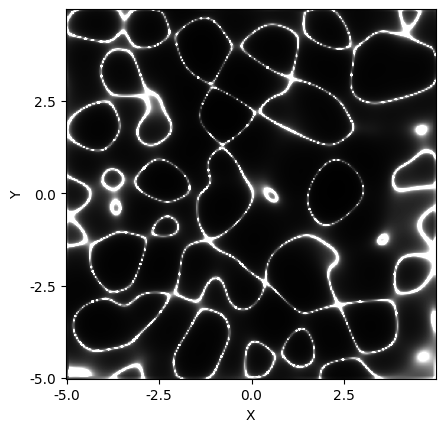
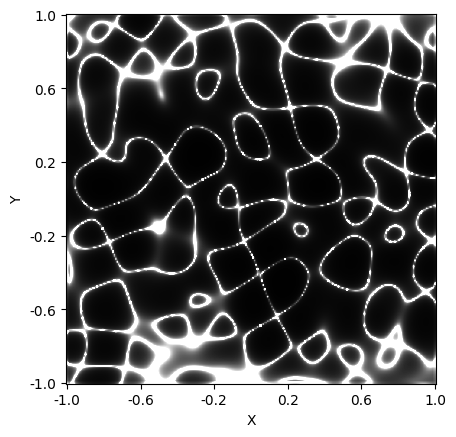
Added intensity graph in farfield.py

diff --git a/farfield.py b/farfield.py
@@ -2,38 +2,61 @@ import numpy as np
 from scipy import signal
 import matplotlib.pyplot as plt
 
-n = 256
-x = np.linspace(- 5, 5, n)
-y = np.linspace(- 5, 5, n)
+N = 256 # Grid resolution, N ** 2 points
+SX = 1 / 8 # X Roughness
+SY = 1 / 8 # Y Roughness
+D = 2 # Distance to screen
+
+x = np.linspace(- 1, 1, N)
+y = np.linspace(- 1, 1, N)
 X, Y = np.meshgrid(x, y)
 
 # Generating random wavefront
-C = np.exp(- (X ** 2 + Y ** 2))
-B = np.exp(2j * np.pi * np.random.randn(*np.shape(X)))
-A = signal.convolve(B, C, 'same')
-I = np.sqrt(np.mean(np.abs(A) ** 2))
-Z = np.real(A / I)
+bell_curve = np.exp(- (X ** 2 / (2 * SX ** 2) + Y ** 2 / (2 * SY ** 2)))
+randn_phase = np.exp(2j * np.pi * np.random.randn(*np.shape(X)))
+complex_amplitude = signal.convolve(randn_phase, bell_curve, 'same')
+mean_sqr_amplitude = np.sqrt(np.mean(np.abs(complex_amplitude) ** 2))
+Z = np.real(complex_amplitude / mean_sqr_amplitude)
 
 # Jacobian and inverse Jacobian
 O1, O2 = np.gradient(- Z)
 O1x, O1y = np.gradient(O1)
 O2x, O2y = np.gradient(O2)
-J = O1x * O2y - O1y * O2x
-D = np.abs(1 / J)
+Jacobian = O1x * O2y - O1y * O2x
+invJacobian = np.abs(1 / Jacobian)
+
+# Far field intensity
+I = np.zeros((N, N))
+for i, xi in enumerate(x):
+    for j, yj in enumerate(y):
+        # Where rays land on the screen
+        a = xi + (D - Z[i, j]) * O1[i, j]
+        b = yj + (D - Z[i, j]) * O2[i, j]
+        # Intensity
+        if np.abs(a) > 1 or np.abs(b) > 1:
+            continue
+        indx = np.argmin(np.abs(x - a))
+        indy = np.argmin(np.abs(y - b))
+        I[indx, indy] += 1
+        
 
 # Plotting
-step = n // 4
 fig1, ax1 = plt.subplots()
 im1 = ax1.imshow(Z, cmap='seismic', origin='lower')
 plt.colorbar(im1, ax=ax1)
-ax1.set_xticks(np.arange(0, n, step), [f'{i:.1f}' for i in x[::step]])
-ax1.set_yticks(np.arange(0, n, step), [f'{i:.1f}' for i in y[::step]])
-ax1.set_xlabel('X')
-ax1.set_ylabel('Y')
+
 fig2, ax2 = plt.subplots()
-im2 = ax2.imshow(D, cmap='gray', clim=(0, 5e6), origin='lower')
-ax2.set_xticks(np.arange(0, n, step), [f'{i:.1f}' for i in x[::step]])
-ax2.set_yticks(np.arange(0, n, step), [f'{i:.1f}' for i in y[::step]])
-ax2.set_xlabel('X')
-ax2.set_ylabel('Y')
+im2 = ax2.imshow(invJacobian, cmap='gray', clim=(0, 5e6), origin='lower')
+
+fig3, ax3 = plt.subplots()
+im3 = ax3.imshow(I, cmap='gray', clim=(0, 10), origin='lower', interpolation='bicubic')
+
+step = N // 5
+axes = [ax1, ax2, ax3]
+for ax in axes:
+    ax.set_xticks(np.arange(0, N, step), [f'{i:.1f}' for i in x[::step]])
+    ax.set_yticks(np.arange(0, N, step), [f'{i:.1f}' for i in y[::step]])
+    ax.set_xlabel('X')
+    ax.set_ylabel('Y')
+
 plt.show()

diff --git a/dispersion.py b/dispersion.py
@@ -31,6 +31,7 @@ D, C = y_n.as_poly(m).all_coeffs()[1].as_poly(x).all_coeffs()
 F, E = y_n.as_poly(m).all_coeffs()[0].as_poly(x).all_coeffs()
 A, B, C, D, E, F = np.array([A, - B, C, - D, E, - F], dtype='float')
 
+# Colour parameter
 X, Y = np.meshgrid(W, H)
 MUp = (D * X - C + np.sqrt((C - D * X) ** 2 - 4 * (E - F * X) * (A - B * X - Y))) / (2 * (E - F * X))
 MUm = (D * X - C - np.sqrt((C - D * X) ** 2 - 4 * (E - F * X) * (A - B * X - Y))) / (2 * (E - F * X))
